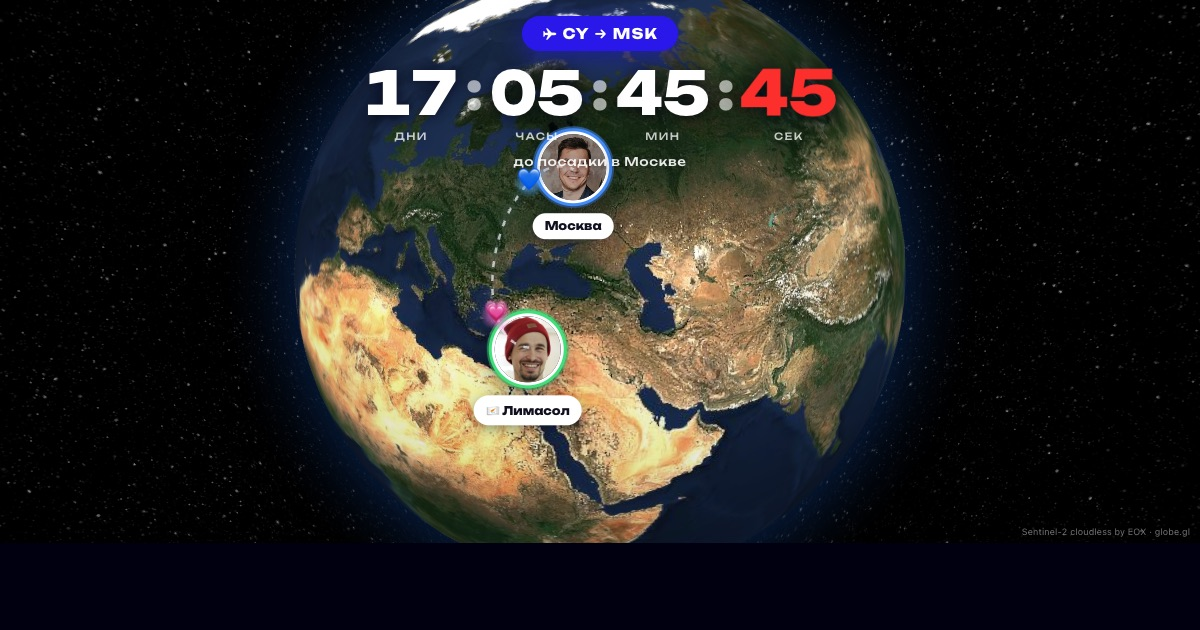
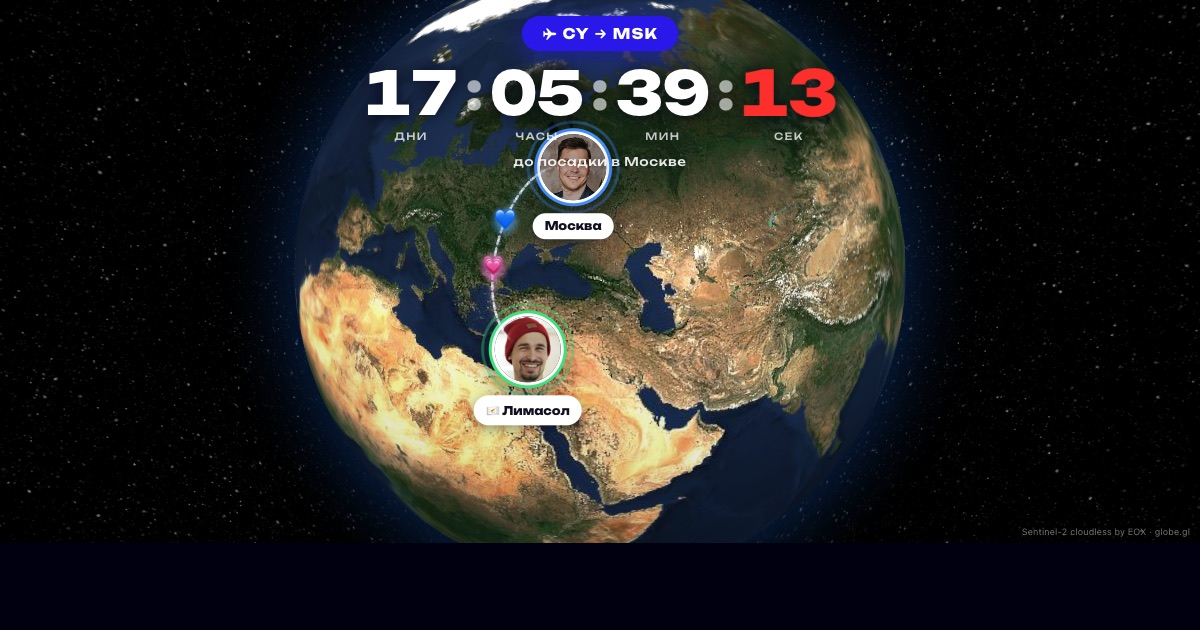
Дуга растворяется у аватарок (opacity к земле), сердечки стартуют выше лица
- посегментный пунктир с альфой smoothstep: 0 у пинов, полная в небе
- сердечки летят в диапазоне t=[0.07..0.5], а не из центра пина
- og.jpg пересобран с чистым рендером

diff --git a/js/main.js b/js/main.js
@@ -118,7 +118,7 @@ function curvePoint(t) {
   return { ...p, alt: ARC_ALT * Math.sin(Math.PI * t) };
 }
 
-const TRACK_N = 72;
+const TRACK_N = 96;
 const trackPts = Array.from({ length: TRACK_N + 1 }, (_, i) => curvePoint(i / TRACK_N));
 const APEX = curvePoint(0.5);
 
@@ -171,25 +171,35 @@ function glowDot(x, y, r, hex, alpha) {
   ctx.globalAlpha = 1;
 }
 
-const PIN_CLEAR_R = 48; // px: не рисуем пунктир поверх аватарок
+/* дуга растворяется у земли: альфа 0 у аватарок, полная в небе (идея: opacity к земле) */
+function trackAlpha(t) {
+  const rampIn = Math.min(1, Math.max(0, (t - 0.12) / 0.18));
+  const rampOut = Math.min(1, Math.max(0, (0.88 - t) / 0.18));
+  const a = Math.min(rampIn, rampOut);
+  return a * a * (3 - 2 * a); // smoothstep
+}
 
-function drawTrack(cam, pinA, pinB) {
+function drawTrack(cam) {
   ctx.save();
-  ctx.setLineDash([6, 8]);
   ctx.lineWidth = 2.5;
-  ctx.strokeStyle = COLORS.track;
+  ctx.lineCap = 'round';
   ctx.shadowColor = 'rgba(160,200,255,.8)';
   ctx.shadowBlur = 6;
-  ctx.beginPath();
-  let started = false;
-  for (const pt of trackPts) {
-    const s = project(pt, cam);
-    const nearPin = s && [pinA, pinB].some(p => p && Math.hypot(s.x - p.x, s.y - p.y) < PIN_CLEAR_R);
-    if (!s || nearPin) { started = false; continue; }
-    if (!started) { ctx.moveTo(s.x, s.y); started = true; }
-    else ctx.lineTo(s.x, s.y);
+  ctx.strokeStyle = '#fff';
+  for (let i = 0; i < TRACK_N; i++) {
+    if (i % 3 === 2) continue; // параметрический пунктир: два сегмента — линия, один — пропуск
+    const a = trackAlpha((i + 0.5) / TRACK_N);
+    if (a <= 0.01) continue;
+    const s1 = project(trackPts[i], cam);
+    const s2 = project(trackPts[i + 1], cam);
+    if (!s1 || !s2) continue;
+    ctx.globalAlpha = 0.65 * a;
+    ctx.beginPath();
+    ctx.moveTo(s1.x, s1.y);
+    ctx.lineTo(s2.x, s2.y);
+    ctx.stroke();
   }
-  ctx.stroke();
+  ctx.globalAlpha = 1;
   ctx.restore();
 }
 
@@ -218,15 +228,15 @@ function drawFrame(now) {
   ctx.clearRect(0, 0, innerWidth, innerHeight);
   const cam = globe.camera().position;
 
-  const pinA = project({ ...CYPRUS, alt: 0.012 }, cam);
-  const pinB = project({ ...MOSCOW, alt: 0.012 }, cam);
-  drawTrack(cam, pinA, pinB);
+  drawTrack(cam);
 
   const ph = (now % PULSE_PERIOD) / PULSE_PERIOD;
 
-  // два сердечка навстречу: старт на границе секунды, столкновение в вершине ровно на следующем тике
-  drawPulse(0.5 * ph, +1, HEART_CY, cam, ph);
-  drawPulse(1 - 0.5 * ph, -1, HEART_MSK, cam, ph);
+  // два сердечка навстречу: старт на границе секунды (чуть выше аватарки, не «из носа»),
+  // столкновение в вершине ровно на следующем тике
+  const T0 = 0.07;
+  drawPulse(T0 + (0.5 - T0) * ph, +1, HEART_CY, cam, ph);
+  drawPulse(1 - T0 - (0.5 - T0) * ph, -1, HEART_MSK, cam, ph);
 
   // вспышка столкновения в вершине — первые 240 мс каждой секунды
   const msIn = now % 1000;